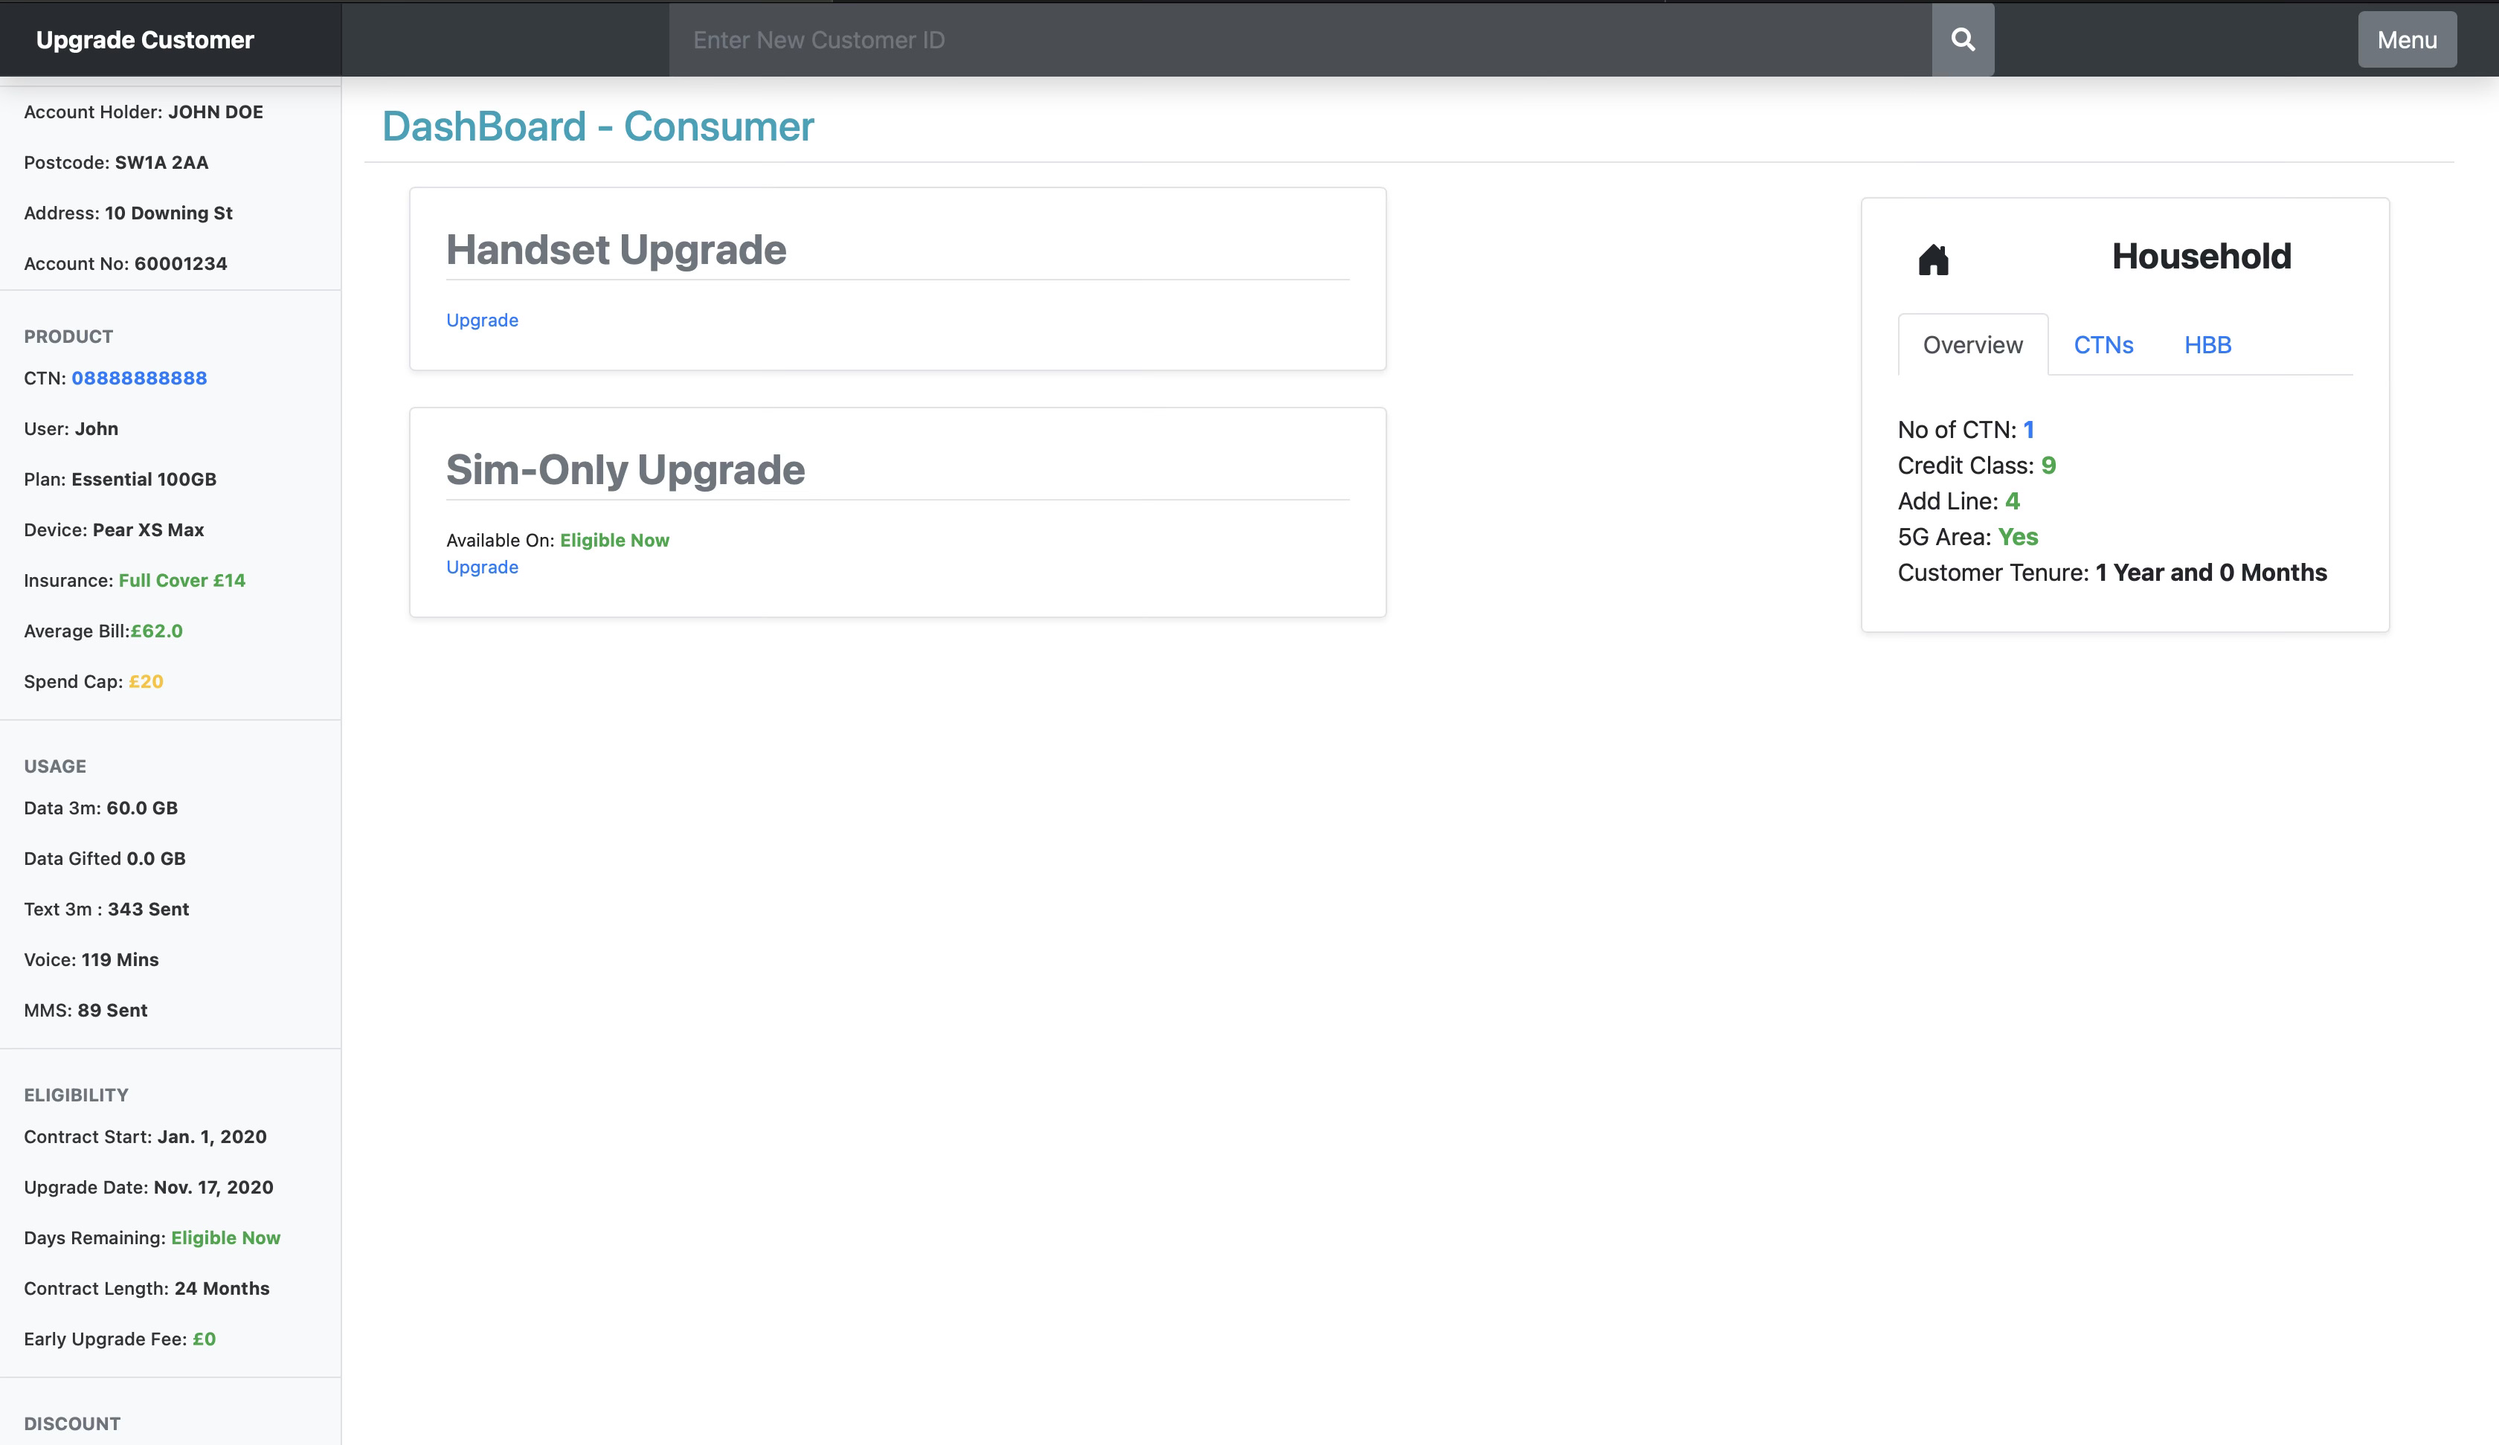
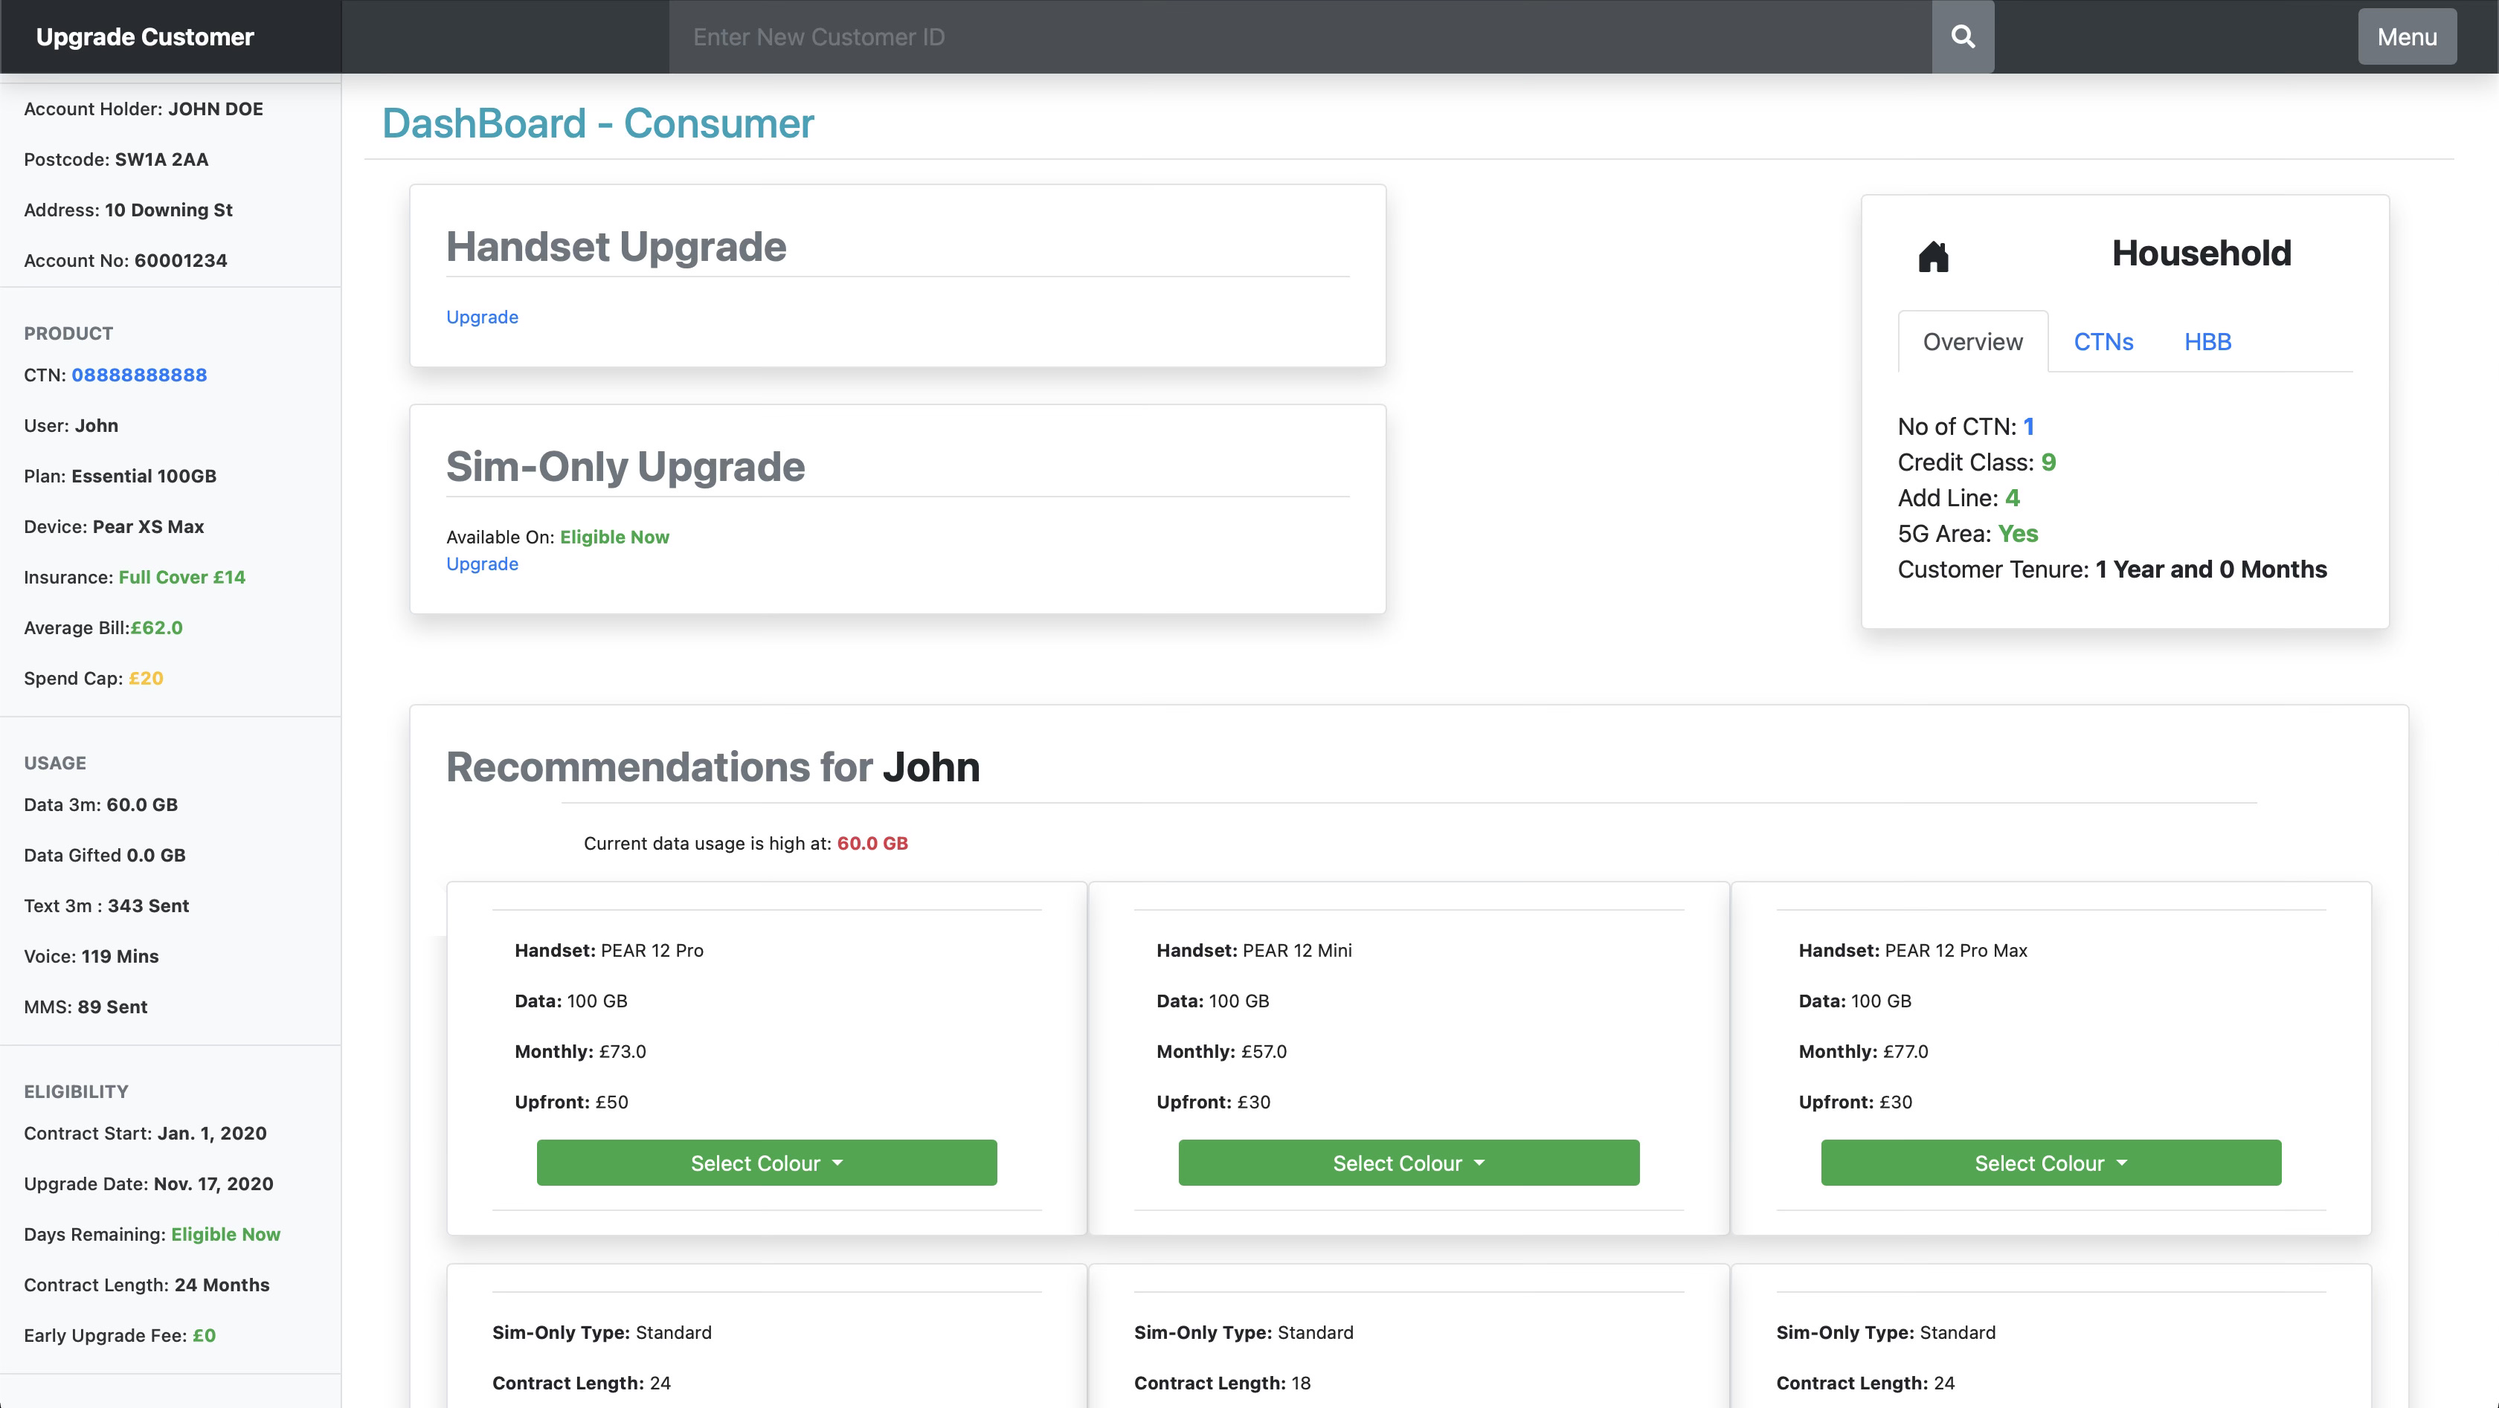
updated sample images and readme

diff --git a/README.md b/README.md
@@ -3,14 +3,16 @@ Allows employees to upgrade a customer to a new handset or sim tariff.
 
 ## General info
 This is a mock CRM system that in theory would be used by a mobile network provider to retain and upgrade existing customers to a new plan. The system will let you build both sim-only and full handset contracts, after a tariff has been selected optional extras can also be added. Once the deal has been built, the customer needs then to confirm 3 separate validations to confirm their identity. After that, the connection can then be 'submitted'. Although nothing will change on the database, the user will just be redirected back to the dashboard. 
+On the dashboard, the system will also dynamically recommend handset/sim-only products based on their current device and data usage. 
 
-Build with Python, Django, HTML, CSS, Twilo, Javascript, Bootstrap.
+Build with Python, Django, HTML, CSS, Twilio, Javascript, Bootstrap.
 
 ## Dashboard
 ![](/sampleimages/Dashboard.jpeg?raw=true "Dashboard")
 
 ## Features
 	- Customer can have multiple mobile numbers on one account
+    - Dynamic recommendations 
 	- Can add insurance/spend caps/upfront cost discount/friends and family discount
 	- Ability for numbers to be early upgraded depending on the fee 
 	- Detailed customer view of usage and current products
